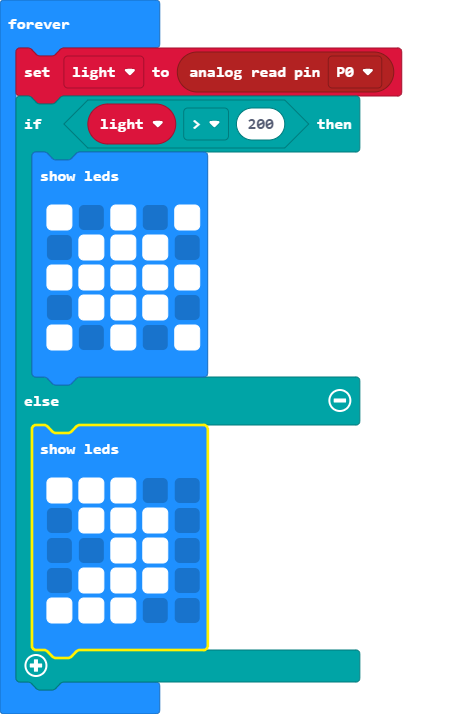
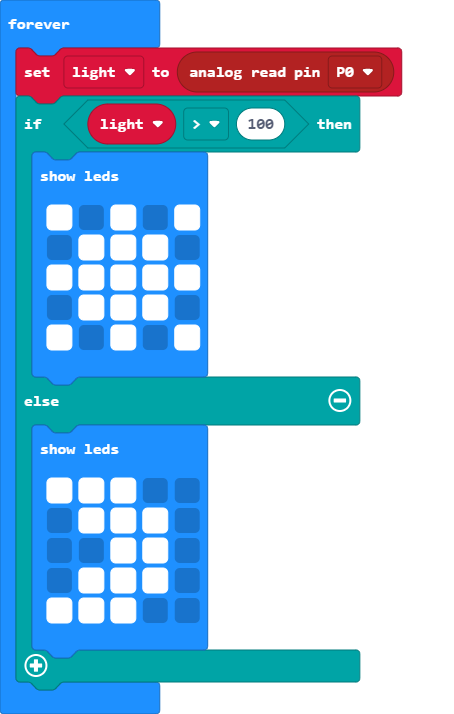
changed from 200 to 100

Changed region(s): [[0.0617, 0.5854, 0.4626, 0.9244]]

diff --git a/main.ts b/main.ts
@@ -1,7 +1,7 @@
 let light2 = 0
 basic.forever(function () {
     light2 = pins.analogReadPin(AnalogPin.P0)
-    if (light2 > 200) {
+    if (light2 > 100) {
         basic.showLeds(`
             # . # . #
             . # # # .
